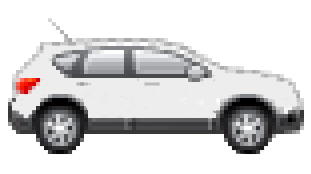
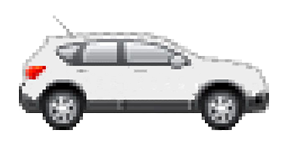
plusierus petits bugs/ ajustements faits

diff --git a/DragSim3000/src/View/Options.java b/DragSim3000/src/View/Options.java
@@ -2,6 +2,7 @@ package View;
 
 import Controller.EventHandler;
 import Main.Programme;
+import javafx.geometry.Pos;
 import javafx.scene.Scene;
 import javafx.scene.control.CheckBox;
 import javafx.scene.image.*;
@@ -14,7 +15,7 @@ import javafx.stage.Stage;
 public class Options {
 
     private Programme prog = new Programme();
-    private Pane group = new Pane();
+    private StackPane group = new StackPane();
     private Scene option = new Scene(group, prog.getLargeurEcran(), prog.getHauteurEcran());
     private Image background = new Image("Ressources\\noRoad.png");
     private CheckBox sec = new CheckBox("Sèche");
@@ -26,18 +27,20 @@ public class Options {
 
     public Options(Stage s, EventHandler eh) {
 //TODO: appeler les méthodes addElements et celle qui check si on clic sur START
-        addElements(group);
+        addElements();
         eh.option(this, s, new EnCourse());
     }
 
-    public void addElements(Pane p){
+    public void addElements(){
         BackgroundImage bgImg = new BackgroundImage(background, BackgroundRepeat.NO_REPEAT, BackgroundRepeat.NO_REPEAT, BackgroundPosition.DEFAULT,
                 new BackgroundSize(BackgroundSize.AUTO, BackgroundSize.AUTO, false, false, true, false));
         Background bg = new Background(bgImg);
-        p.setBackground(bg);
+        group.setBackground(bg);
 
         VBox vb1 = new VBox(50);
+        vb1.setAlignment(Pos.CENTER);
         HBox hb1 = new HBox(50);
+        hb1.setAlignment(Pos.CENTER);
         Text txt1 = new Text("État de la chaussée:");
         txt1.setFont(Font.font(null, FontWeight.SEMI_BOLD, 50));
         sec.setSelected(true);
@@ -47,7 +50,9 @@ public class Options {
         vb1.getChildren().addAll(txt1, hb1);
 
         VBox vb2 = new VBox(50);
+        vb2.setAlignment(Pos.CENTER);
         HBox hb2 = new HBox(50);
+        hb2.setAlignment(Pos.CENTER);
         Text txt2 = new Text("Type de transmission:");
         txt2.setFont(Font.font(null, FontWeight.SEMI_BOLD, 50));
         autom.setSelected(true);
@@ -57,14 +62,13 @@ public class Options {
         vb2.getChildren().addAll(txt2, hb2);
 
         VBox vb = new VBox(100);
+        vb.setAlignment(Pos.CENTER);
+        start.setScaleX(2);
+        start.setScaleY(2);
         vb.getChildren().addAll(vb1, vb2, start);
 
-        vb.setTranslateX(780);
-        vb.setTranslateY(200);
-
-        //TODO: centrer le shit
-
-        p.getChildren().addAll(vb);
+        group.getChildren().add(vb);
+        StackPane.setAlignment(vb, Pos.BASELINE_CENTER);
     }
 
     public Scene getOption() {

diff --git a/DragSim3000/src/View/EnCourse.java b/DragSim3000/src/View/EnCourse.java
@@ -20,15 +20,14 @@ public class EnCourse {
     private Pane group = new Pane();
     private Scene enCourse = new Scene(group, programme.getLargeurEcran(), programme.getHauteurEcran());
     private Image background = new Image("Ressources\\road.png");
-    private Voiture v = lv.getVoitures().get(0);
-    //TODO: changer voiture pour Moteur.choixVoiture
-    private ImageView voiture = v.getImage();
+    private Voiture voiture;
+    private ImageView imageVoiture = new ImageView();
 
     public EnCourse() {
-        addElements(group);
+        addElements();
     }
 
-    private void addElements(Pane p) {
+    private void addElements() {
         BackgroundImage backgroundImage = new BackgroundImage(background, BackgroundRepeat.REPEAT, BackgroundRepeat.NO_REPEAT, BackgroundPosition.DEFAULT,
                 new BackgroundSize(300, 1080, false, false, false, false));
 
@@ -42,20 +41,33 @@ public class EnCourse {
         Label distance = new Label("Distance: ");
         distance.setFont(Font.font(null, FontWeight.SEMI_BOLD, 15));
         vb.getChildren().addAll(temps, vitesse, RPM, distance);
-        voiture.setY(735);
-        voiture.setX(-70);
-        voiture.setScaleX(0.3);
-        voiture.setScaleY(0.3);
+
 
         Background bg = new Background(backgroundImage);
-        p.setBackground(bg);
+        group.setBackground(bg);
 
-        p.getChildren().addAll(vb, voiture);
+        group.getChildren().add(vb);
+    }
 
-
+    public void loaderVoiture(){
+        voiture = Moteur.getChoixVoiture();
+        imageVoiture.setImage(new Image(voiture.getURL()));
+        imageVoiture.setY(735);
+        imageVoiture.setX(-70);
+        imageVoiture.setScaleX(0.3);
+        imageVoiture.setScaleY(0.3);
+        group.getChildren().add(imageVoiture);
     }
 
     public Scene getEnCourse() {
         return enCourse;
+    }
+
+    public Voiture getVoiture() {
+        return voiture;
+    }
+
+    public ImageView getImageVoiture() {
+        return imageVoiture;
     }
 }

diff --git a/DragSim3000/src/View/Selection.java b/DragSim3000/src/View/Selection.java
@@ -20,7 +20,7 @@ public class Selection {
 
     public Selection(Stage s, EventHandler eh) {
         this.stage = s;
-        addElements(grid, lv);
+        addElements(lv);
         eh.choixVoiture(lv, s, new Options(s, eh));
     }
 
@@ -28,7 +28,7 @@ public class Selection {
         return choix;
     }
 
-    public void addElements(GridPane gp, ListeVoitures liste) {
+    public void addElements(ListeVoitures liste) {
 
 
 
@@ -37,18 +37,18 @@ public class Selection {
         for (int i = 0; i < nbCol; i++) {
             ColumnConstraints colConst = new ColumnConstraints();
             colConst.setPercentWidth(100.0 / nbCol);
-            gp.getColumnConstraints().add(colConst);
+            grid.getColumnConstraints().add(colConst);
         }
         for (int i = 0; i < nbRan; i++) {
             RowConstraints rowConst = new RowConstraints();
             rowConst.setPercentHeight(100.0 / nbRan);
-            gp.getRowConstraints().add(rowConst);
+            grid.getRowConstraints().add(rowConst);
         }
 
         int noCol = 0;
         int noRan = 0;
         for (int x = 0; x < liste.voitures.size(); x++) {
-            gp.add(liste.voitures.get(x).getImage(), noCol, noRan);
+            grid.add(liste.voitures.get(x).getImage(), noCol, noRan);
             noCol++;
             if (noCol > 4) {
                 noCol = 0;
@@ -58,7 +58,7 @@ public class Selection {
         BackgroundImage bgImg = new BackgroundImage(background, BackgroundRepeat.NO_REPEAT, BackgroundRepeat.NO_REPEAT, BackgroundPosition.DEFAULT,
                 new BackgroundSize(BackgroundSize.AUTO, BackgroundSize.AUTO, false, false, true, false));
         Background bg = new Background(bgImg);
-        gp.setBackground(bg);
+        grid.setBackground(bg);
 
     }
 }

diff --git a/DragSim3000/src/View/Demarrage.java b/DragSim3000/src/View/Demarrage.java
@@ -27,7 +27,7 @@ public class Demarrage {
 
     public Demarrage(Stage s, EventHandler eh) {
         demarrer(s, eh);
-        addElements(group);
+        addElements();
         s.setMaximized(true);
         s.setTitle("DragSim3000");
     }
@@ -38,11 +38,11 @@ public class Demarrage {
         stage.show();
     }
 
-    public void addElements(Pane p) {
+    public void addElements() {
         BackgroundImage bgImg = new BackgroundImage(background, BackgroundRepeat.NO_REPEAT, BackgroundRepeat.NO_REPEAT, BackgroundPosition.DEFAULT,
-                new BackgroundSize(BackgroundSize.AUTO, BackgroundSize.AUTO, false, false, true, false));
+                new BackgroundSize(BackgroundSize.AUTO, BackgroundSize.AUTO, false, false, true, true));
         Background bg = new Background(bgImg);
-        p.setBackground(bg);
+        group.setBackground(bg);
         //TODO: ajouter le texte et autres trucs si nécessaire
 
         Text txt = new Text("Press any key\n to continue");
@@ -57,7 +57,7 @@ public class Demarrage {
         ds.setOffsetY(18);
         gb.setInput(ds);
         txt.setEffect(gb);
-        p.getChildren().add(txt);
+        group.getChildren().add(txt);
 
         ScaleTransition st = new ScaleTransition(Duration.millis(1000), txt);
         st.setAutoReverse(true);

diff --git a/DragSim3000/src/Controller/EventHandler.java b/DragSim3000/src/Controller/EventHandler.java
@@ -17,7 +17,6 @@ public class EventHandler {
 
     public void anyKey(Scene scene, Stage stage, Selection selec) {
         scene.setOnKeyPressed(event -> {
-            //TODO: mettre la scene de sélection de la voiture
             stage.setScene(selec.getChoix());
         });
     }
@@ -44,6 +43,7 @@ public class EventHandler {
         }
     }
 
+    //TODO: arranger le vbox qui monte quand je check une case
     public void option(Options opt, Stage stage, EnCourse ec) {
         opt.getSec().setOnAction(event -> {
             if (opt.getSec().isSelected())
@@ -77,6 +77,9 @@ public class EventHandler {
         opt.getStart().setOnMouseEntered(event -> opt.getStart().setEffect(glow));
         opt.getStart().setOnMouseExited(event -> opt.getStart().setEffect(null));
 
-        opt.getStart().setOnMouseClicked(event -> stage.setScene(ec.getEnCourse()));
+        opt.getStart().setOnMouseClicked(event -> {
+            stage.setScene(ec.getEnCourse());
+            ec.loaderVoiture();
+        });
     }
 }
